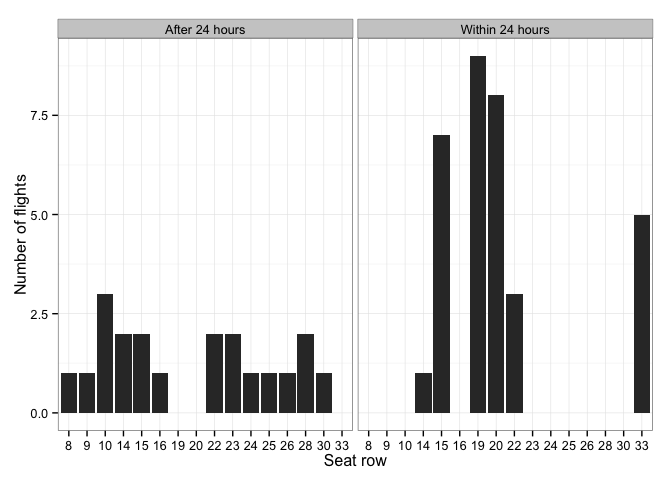
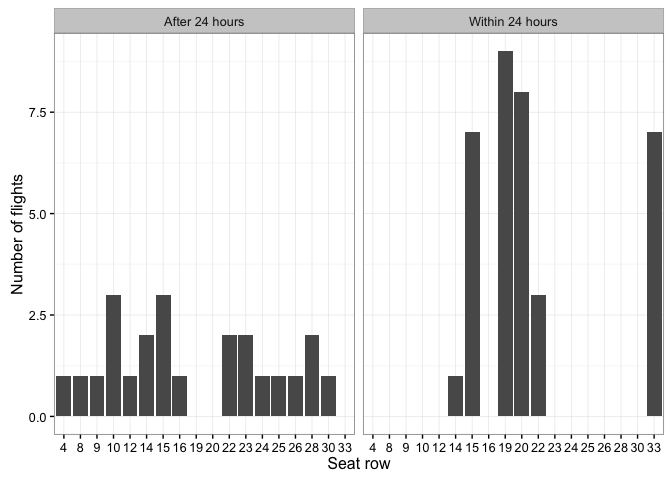
Add 5 more flights to the data set

diff --git a/README.md b/README.md
@@ -1,5 +1,8 @@
 
 
+```
+## Warning: package 'ggplot2' was built under R version 3.2.4
+```
 
 
 # How to avoid middle seats on Ryanair flights?
@@ -11,8 +14,8 @@ Some time ago, I noticed that when I checked in early I was less likely to sit i
 
 |Check-in time   | Number of flights| Number of middle seats| Fraction|
 |:---------------|-----------------:|----------------------:|--------:|
-|After 24 hours  |                20|                      9|    0.450|
-|Within 24 hours |                33|                      2|    0.061|
+|After 24 hours  |                23|                     10|    0.435|
+|Within 24 hours |                35|                      2|    0.057|
 So there you have it, if you don't want to sit in the middle then checking in early does indeed look very promising.
 
 But are there any downsides to early check-in? Well, you are likely to be one of the last person to get off the plane when it lands. That's because the seat allocation tends to start from the rows that are in the middle of the plane. The follwing figure shows how check-ins done within the first 24 hours almost always give you a seat in rows between 15-22 (exluding emergency exit rows 16 and 17). On the otherhand, for check-ins done later there is no strong row bias and you are more likely to sit eihter towards the front end or the back end of the plane.
